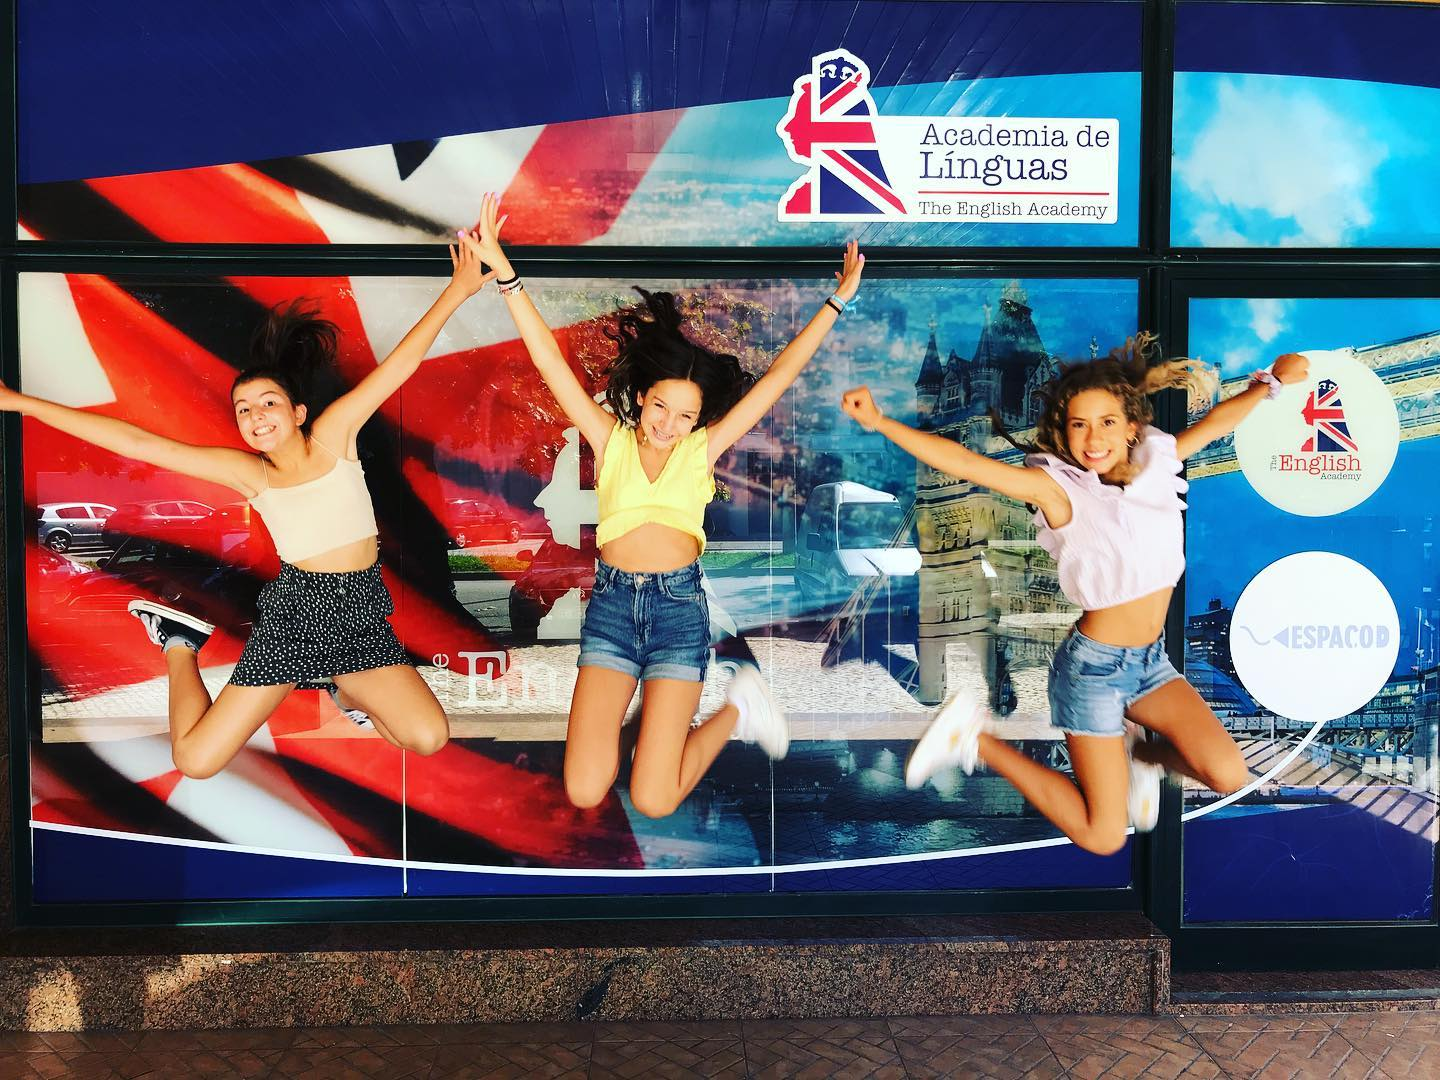
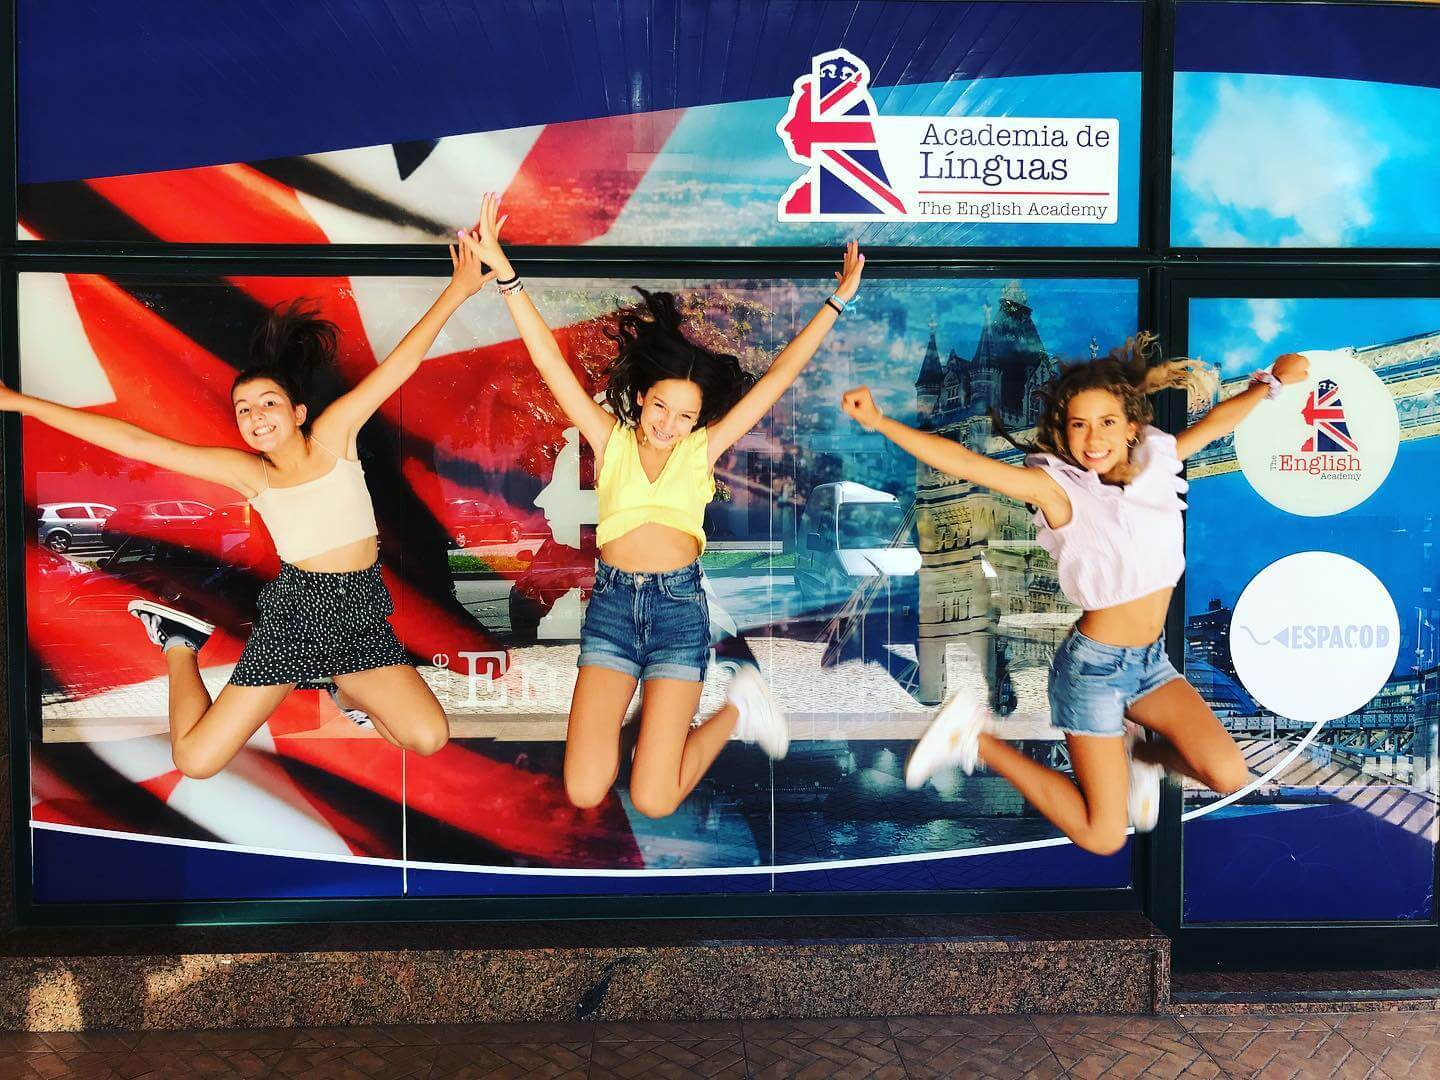
Added a carousel to the About section, started implementing Contact Form and Resized images for less overhead

Changed region(s): [[0.1875, 0.5194, 0.25, 0.6111], [0.5938, 0.1528, 0.625, 0.1833], [0.5625, 0.0611, 0.5938, 0.0917]]

diff --git a/src/components/ContactForm.jsx b/src/components/ContactForm.jsx
@@ -1,0 +1,81 @@
+import React from "react";
+
+const ContactForm = ({ isVisible, onClose, children }) => {
+  if (!isVisible) return null;
+
+  const handleClose = (e) => {
+    if (e.target.id === "wrapper") onClose();
+  };
+
+  return (
+    <div
+      id="wrapper"
+      className="fixed inset-0 flex items-center justify-center bg-black bg-opacity-25 backdrop-blur-sm"
+      onClick={handleClose}
+    >
+      <div className="flex w-[600px] flex-col">
+        <button
+          className="place-self-end text-xl text-white"
+          onClick={() => onClose()}
+        >
+          X
+        </button>
+        <div className=" rounded bg-white p-2 text-center text-gray-800">
+          <div className="mx-auto max-w-6xl px-3 lg:px-6">
+            <h2 class="mb-12 text-3xl font-bold">Contact us</h2>
+            <div className="flex justify-between">
+            <h2>Address</h2>
+              <p>
+                Avenida Adelino Amaro da Costa 346 R/C 3700-023 São João da
+                Madeira
+              </p>
+
+              <form>
+                <div className="mb-6">
+                  <input
+                    type="text"
+                    className="m-0 block w-full rounded border border-solid border-gray-300 bg-white bg-clip-padding px-3 py-1.5 text-base font-normal text-gray-700 transition ease-in-out focus:border-blue-600 focus:bg-white focus:text-gray-700 focus:outline-none"
+                    id="inputName"
+                    placeholder="Name"
+                  />
+                </div>
+                <div className="mb-6">
+                  <input
+                    type="email"
+                    className="m-0 block w-full rounded border border-solid border-gray-300 bg-white bg-clip-padding px-3 py-1.5 text-base font-normal text-gray-700 transition ease-in-out focus:border-blue-600 focus:bg-white focus:text-gray-700 focus:outline-none"
+                    id="inputEmail"
+                    placeholder="Email address"
+                  />
+                </div>
+                <div className="mb-6">
+                  <input
+                    type="text"
+                    className="m-0 block w-full rounded border border-solid border-gray-300 bg-white bg-clip-padding px-3 py-1.5 text-base font-normal text-gray-700 transition ease-in-out focus:border-blue-600 focus:bg-white focus:text-gray-700 focus:outline-none"
+                    id="inputSubject"
+                    placeholder="Subject"
+                  />
+                </div>
+                <div className="mb-6">
+                  <input
+                    type="text"
+                    className="m-0 block  w-full rounded border border-solid  border-gray-300 bg-white bg-clip-padding px-3 py-1.5 text-base font-normal  text-gray-700 transition ease-in-out  focus:border-blue-600 focus:bg-white focus:text-gray-700 focus:outline-none"
+                    id="inputMessage"
+                    placeholder="Message"
+                  />
+                </div>
+                <button
+                  type="submit"
+                  className="w-full rounded bg-blue-600 px-6  py-2.5 text-xs font-medium uppercase leading-tight  text-white shadow-md transition duration-150 ease-in-out  hover:bg-blue-700 hover:shadow-lg focus:bg-blue-700  focus:shadow-lg focus:outline-none focus:ring-0  active:bg-blue-800 active:shadow-lg"
+                >
+                  Send
+                </button>
+              </form>
+            </div>
+          </div>
+        </div>
+      </div>
+    </div>
+  );
+};
+
+export default ContactForm;

diff --git a/src/components/Hero.jsx b/src/components/Hero.jsx
@@ -1,9 +1,10 @@
 import React from "react";
+import { ArrowDown, ChevronDown } from "react-feather";
 import { Link, ScrollRestoration } from "react-router-dom";
 
 const Hero = () => {
   return (
-    <section className="relative bg-[url('./data/img/hero.jpg')] bg-cover bg-center bg-no-repeat">
+    <section className="relative bg-[url('./data/img/hero-md-tiny.jpg')] bg-cover bg-center bg-no-repeat">
       <ScrollRestoration />
       <div className="absolute inset-0 bg-white/75 sm:bg-transparent sm:bg-gradient-to-r sm:from-white/95 sm:to-white/25"></div>
 
@@ -12,13 +13,13 @@ const Hero = () => {
           <h1 className="text-3xl font-extrabold md:text-4xl lg:text-5xl">
             Welcome to
             <div className="mt-4 block lg:text-6xl">
-              <strong className="font-custom font-normal text-[#012169]">
+              <strong className="font-main font-normal text-[#012169]">
                 The{" "}
               </strong>
-              <strong className="font-custom font-normal  text-[#C8102E]">
+              <strong className="font-main font-normal  text-[#C8102E]">
                 English{" "}
               </strong>
-              <strong className="font-custom font-normal  text-[#012169]">
+              <strong className="font-main font-normal  text-[#012169]">
                 Academy.
               </strong>
             </div>
@@ -36,16 +37,14 @@ const Hero = () => {
             >
               Contact Us
             </Link>
-
-            <Link
-              to="/"
-              className="rounded bg-white px-12 py-3 text-sm font-medium text-gray-800 shadow-xl transition duration-300 hover:bg-[#AAC3FE] hover:text-gray-800 focus:outline-none focus:ring "
-            >
-              Learn More
-              <span className="ml-1 ">
-                <ion-icon name="arrow-down-outline"></ion-icon>
-              </span>
-            </Link>
+            
+              <Link
+                to="/"
+                className="flex gap-2 items-center rounded bg-white px-8 py-3 text-sm font-medium text-gray-800 shadow-xl transition duration-300 hover:bg-[#AAC3FE] hover:text-gray-800 focus:outline-none focus:ring "
+              >
+                Learn More
+                <ArrowDown size={14} />
+              </Link>
           </div>
         </div>
       </div>

diff --git a/src/data/data-info/about-data.jsx b/src/data/data-info/about-data.jsx
@@ -1,12 +1,15 @@
-import tea_entry from "../img/tea_entry.jpg";
+import t1 from "../img/tea_entry.jpg";
+import t2 from "../img/image-2.jpg";
+import t4 from "../img/image-4.jpg";
+import t6 from "../img/image-6.jpg";
 import director from "../img/director.jpg";
 
 export const about_EN = {
   about:
-    "THE ENGLISH ACADEMY is a language school with a difference. Specialising in every type of English course for people of all ages and in particular, preparation for Cambridge English exams, the Academy provides you with teachers who are all highly qualified in ESL, possess the CAP certificate and have vast experience in teaching. However, English is not our only forte.\n Click below to find out more about our amazing services! ",
+    "THE ENGLISH ACADEMY is a language school with a difference. Specialising in every type of English course for people of all ages and in particular, preparation for Cambridge English exams, the Academy provides you with teachers who are all highly qualified in ESL, possess the CAP certificate and have vast experience in teaching. However, English is not our only forte.\n Click below to find out more about what we have to offer! ",
   about_director:
     "Born and bred in Leeds, in the North of England, Victoria is a very proud British citizen. Having finished university in 2000, graduating in English and Theatre Studies, Victoria moved to Northern Portugal to pursue her teaching career and has been an ESL teacher ever since. Working in many different institutions and companies, teaching all ages and levels, she has built up a vast CV. In 2012, with 12 years’ experience under her belt, she decided to embark on her next challenge and opened up her own school, THE ENGLISH ACADEMY, something she had been thinking about doing for several years. For this venture, Victoria has had to turn her hand to many new things, principally the general day-to-day running of the Academy but continues to be the principal English teacher, which she considers to be her most important role. However, she believes that having both these responsibilities is essential as it helps in identifying the needs of the Academy and its students, making it easier to resolve any problems quickly and efficiently.",
-  image: tea_entry,
+  images: [t1, t2, t4, t6],
   image_director: director,
 };
 

diff --git a/src/components/About.jsx b/src/components/About.jsx
@@ -1,26 +1,19 @@
 import React from "react";
 import { about_EN } from "../data/data-info/about-data";
 import { Link } from "react-router-dom";
+import Carousel from "./Carousel";
 
 const About = () => {
   return (
     <section>
       <div className="mx-auto max-w-screen-xl px-4 py-16 sm:px-6 sm:py-24 lg:px-8">
         <div className="max-w-3xl">
-          <h2 className="text-4xl font-cus font-bold tracking-tight sm:text-5xl">
+          <h2 className="font-cus text-4xl font-bold tracking-tight sm:text-5xl">
             The best school for you
           </h2>
         </div>
 
         <div className="mt-16 grid grid-cols-1 gap-8 md:grid-cols-2 lg:grid-cols-2 lg:gap-16">
-          <div className="relative h-64 overflow-hidden rounded-2xl sm:h-80 lg:h-full">
-            <img
-              alt="The English Academy entrance with kids jumping"
-              src={about_EN.image}
-              className="absolute inset-0 h-full w-full object-cover"
-            />
-          </div>
-
           <div className="lg:py-16">
             <article className="space-y-4 text-gray-600">
               <p>{about_EN.about}</p>
@@ -32,6 +25,20 @@ const About = () => {
               </Link>
             </article>
           </div>
+          <div className="max-w-lg">
+            <Carousel>
+              {about_EN.images.map((i) => (
+                <img src={i} />
+              ))}
+            </Carousel>
+          </div>
+          {/* <div className="relative h-64 overflow-hidden rounded-2xl sm:h-80 lg:h-full">
+            <img
+              alt="The English Academy entrance with kids jumping"
+              src={about_EN.image[0]}
+              className="absolute inset-0 h-full w-full object-cover"
+            />
+          </div> */}
         </div>
 
         <div className="mt-16 grid grid-cols-1 gap-8 md:grid-cols-2 lg:grid-cols-2 lg:gap-16">

diff --git a/src/components/Carousel.jsx b/src/components/Carousel.jsx
@@ -1,0 +1,55 @@
+import React, { useState } from "react";
+import { ChevronLeft, ChevronRight } from "react-feather";
+
+const Carousel = ({ children: imgs }) => {
+  const [curr, setCurr] = useState(0);
+
+  const prev = () =>
+    setCurr((curr) => (curr === 0 ? imgs.length - 1 : curr - 1));
+
+  const next = () =>
+    setCurr((curr) => (curr === imgs.length - 1 ? 0 : curr + 1));
+
+  const goToSlide = (i) => {
+    setCurr(i);
+  };
+
+  return (
+    <div className="relative overflow-hidden rounded-md">
+      <div
+        className="flex transition-transform duration-500 ease-out"
+        style={{ transform: `translateX(-${curr * 100}%)` }}
+      >
+        {imgs}
+      </div>
+      <div className="absolute inset-0 flex items-center justify-between p-4">
+        <button
+          onClick={prev}
+          className="rounded-full bg-white/80 p-1 text-gray-800 shadow hover:bg-white"
+        >
+          <ChevronLeft />
+        </button>
+        <button
+          onClick={next}
+          className="rounded-full bg-white/80 p-1 text-gray-800 shadow hover:bg-white"
+        >
+          <ChevronRight />
+        </button>
+      </div>
+      <div className="absolute bottom-4 right-0 left-0">
+        <div className="flex items-center justify-center gap-2">
+          {imgs.map((_, i) => (
+            <button
+              onClick={() => goToSlide(i)}
+              className={`h-3 w-3 rounded-full bg-white transition-all ${
+                curr === i ? "p-2" : "bg-opacity-50"
+              }`}
+            />
+          ))}
+        </div>
+      </div>
+    </div>
+  );
+};
+
+export default Carousel;

diff --git a/src/components/MainNavigation.jsx b/src/components/MainNavigation.jsx
@@ -1,7 +1,8 @@
-import React, { Fragment, useState } from "react";
-import { Link, NavLink, Outlet } from "react-router-dom";
+import React, { useState } from "react";
+import { NavLink } from "react-router-dom";
 import logo from "../data/img/Logotext.png";
 import logo2 from "../data/img/LogoImg.jpg";
+import ContactForm from "./ContactForm";
 
 // FIX CENTER BURGER MENU / EVENTS + CONTACT PAGE + CONTACT FORM
 
@@ -14,6 +15,7 @@ const nav = ["Services", "Testimonials"];
 
 const MainNavigation = () => {
   const [isOpen, setIsOpen] = useState(false);
+  const [showModal, setShowModal] = useState(false);
 
   return (
     <header className="sticky top-0 left-0 z-[1000] w-full shadow-md">
@@ -52,12 +54,16 @@ const MainNavigation = () => {
               </li>
             ))}
             <li>
-              <NavLink
-                to="/contactus"
+              <button
+                onClick={() => setShowModal(true)}
                 className="rounded-md bg-[#012169] px-6 py-2.5 font-medium text-white shadow  transition duration-300 hover:bg-[#023BC0] focus:outline-none focus:ring focus:ring-yellow-400"
               >
                 Contact Us
-              </NavLink>
+              </button>
+              <ContactForm
+                isVisible={showModal}
+                onClose={() => setShowModal(false)}
+              />
             </li>
           </ul>
         </nav>

diff --git a/src/data/data-info/services-card-data.jsx b/src/data/data-info/services-card-data.jsx
@@ -81,9 +81,9 @@ export const services = [
   },
   {
     image: Abroad,
-    title: "Organisation of Courses Abroad",
+    title: "Courses Abroad",
     text: "Always wanted to study abroad? Here's your chance.",
-    slug: slugify("Organisation of Courses Abroad", { lower: true }),
+    slug: slugify("Courses Abroad", { lower: true }),
     description:
       "Are you interested in studying abroad to improve your English?\n THE ENGLISH ACADEMY works with a number of reputable English language schools where you can choose to stay with a native host family or on campus, and participate in daily English lessons, activities and fun days out.\n The courses are suitable for all ages and levels and take place throughout the year but school students can also take a little time out of their summer holidays to have the experience of a lifetime.",
   },

diff --git a/src/main.jsx b/src/main.jsx
@@ -6,10 +6,10 @@ import "./index.css";
 import { createBrowserRouter, RouterProvider } from "react-router-dom";
 import HomePage from "./pages/Home";
 import Services from "./pages/Services";
-import ContactUs from "./pages/ContactUs";
 import Error from "./pages/Error";
 import ServiceDetail from "./pages/ServiceDetail";
 import Testimonial from "./pages/Testimonial";
+import ContactForm from "./components/ContactForm";
 
 const router = createBrowserRouter([
   {
@@ -19,7 +19,6 @@ const router = createBrowserRouter([
     children: [
       { path: "/", element: <HomePage /> },
       { path: "/services", element: <Services /> },
-      { path: "/contactus", element: <ContactUs /> },
       { path: "/testimonials", element: <Testimonial /> },
       {
         path: "/services/:slug",

diff --git a/src/components/Partnership.jsx b/src/components/Partnership.jsx
@@ -1,0 +1,19 @@
+import React from "react";
+import { partnerships } from "../data/data-info/partnerships";
+
+const Partnership = () => {
+  return (
+    <div className="mx-auto max-w-screen-xl px-4 py-16 sm:px-6 sm:py-24 lg:px-8">
+      <h3 className="font-main text-2xl text-center font-bold tracking-tight">Our Partnerships</h3>
+      <ul className="mt-10 flex gap-10">
+        {partnerships.map((p) => (
+          <li>
+            <img src={p} className="h-24 w-auto" />
+          </li>
+        ))}
+      </ul>
+    </div>
+  );
+};
+
+export default Partnership;

diff --git a/src/components/Body.jsx b/src/components/Body.jsx
@@ -2,12 +2,14 @@ import React, { Fragment } from "react";
 import About from "./About";
 import Testimonials from "./Testimonials";
 import Cambridge from "./Cambridge";
+import Partnership from "./Partnership";
 
 const Body = () => {
   return (
     <Fragment>
       <About />
       <Testimonials />
+      <Partnership />
       <Cambridge />
     </Fragment>
   );

diff --git a/src/data/data-info/partnerships.jsx b/src/data/data-info/partnerships.jsx
@@ -1,0 +1,8 @@
+import p1 from "../img/partner-1.png";
+import p2 from "../img/partner-2.png";
+import p3 from "../img/partner-3.png";
+import p4 from "../img/partner-4.png";
+import p5 from "../img/partner-5.png";
+import p6 from "../img/partner-6.png";
+
+export const partnerships = [p1, p2, p3, p4, p5, p6];
